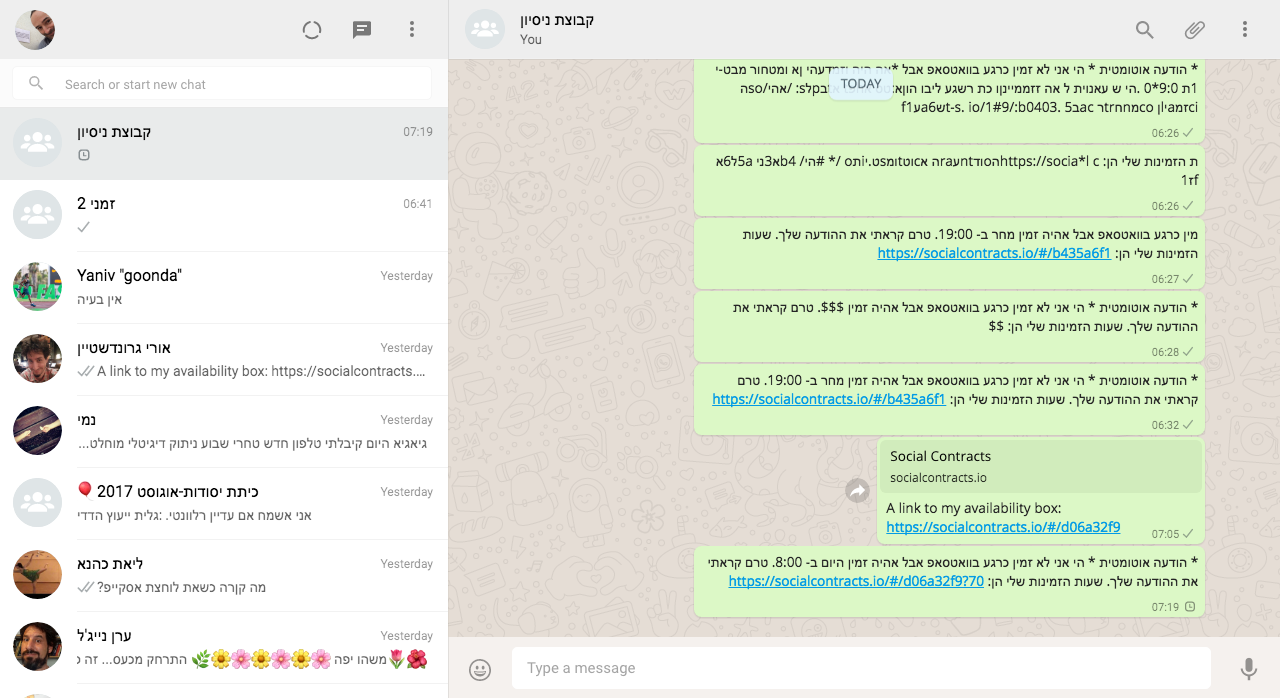
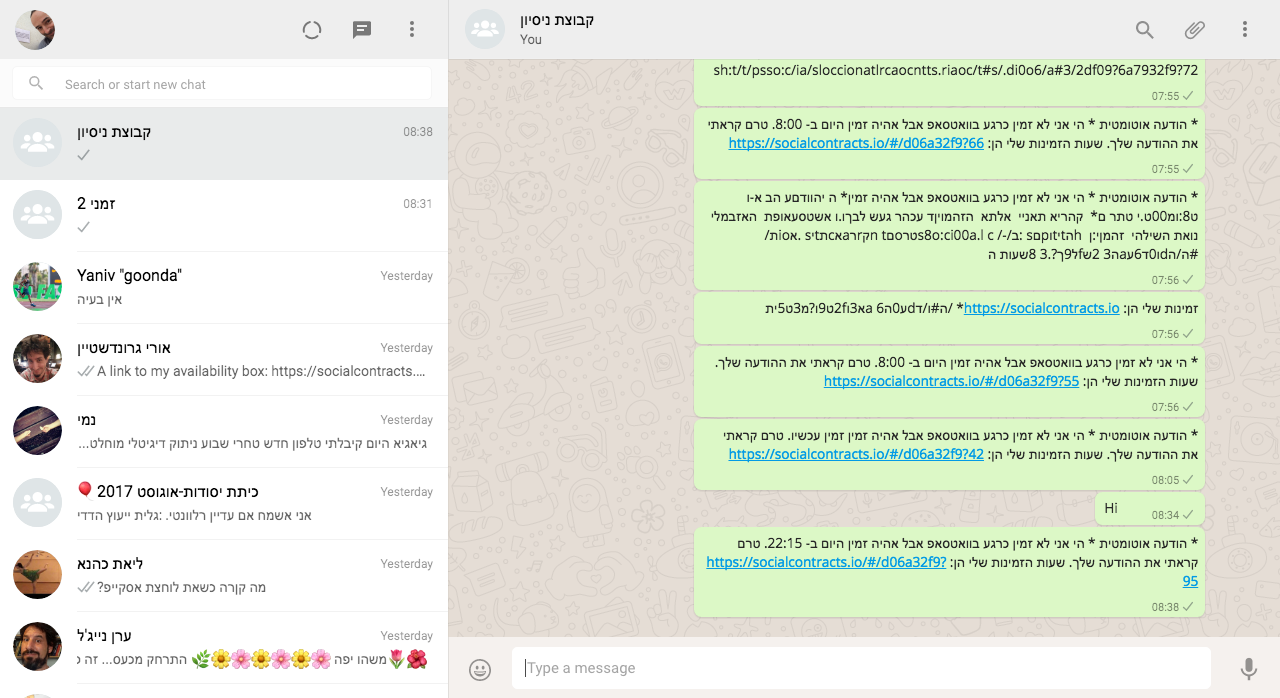
fixes in the change detector

Changed region(s): [[0.5312, 0.0903, 0.9375, 0.8725]]

diff --git a/utils/common.js b/utils/common.js
@@ -1,3 +1,5 @@
+const log = require('./log').logT;
+
 const template = '* הודעה אוטומטית * הי אני לא זמין כרגע בוואטסאפ אבל אהיה זמין $$$. טרם קראתי את ההודעה שלך. שעות הזמינות שלי הן: $$';
 const templateLink = 'https://socialcontracts.io/#/$$$?$$';
 
@@ -35,16 +37,20 @@ function setContractId(_contractId) {
     contractId = _contractId;
 }
 
-const sendAutoMessage = async (common) => {
+const sendAutoMessage = async () => {
     const when = availability.whatsapp,
         link = contractLink(contractId),
         message = autoMessage(when, link);
 
+    if (when === 'זמין עכשיו') {
+        return;
+    }
+
     console.log('message -> ', message);
 
-    await common.clickNear([637, 668]);
-    await common.writeText(message);
-    await common.enter();
+    await clickNear([637, 668]);
+    await writeText(message);
+    await enter();
 };
 
 
@@ -196,16 +202,92 @@ async function type(string, delay) {
 }
 
 async function getChatDetails() {
-    return await this.page.evaluate(() => {
-        console.log('true6 -> ', true);
+    return await page.evaluate(() => {
         let divs = [...document.querySelectorAll('.infinite-list-item')];
-        return divs.map((div) => {
+
+        const arr = divs.map((div) => {
             const chatTitle = div.querySelector('.chat-title span'),
                 timestamp = div.querySelector('.chat-meta .timestamp');
 
-            console.log(chatTitle.title, timestamp.innerHTML);
+            return {chatTitle: chatTitle.innerHTML, timestamp: timestamp.innerHTML}
         });
+
+        return Promise.resolve(arr);
     });
+}
+
+function cleanName(name) {
+    name = name.replace(/<!-- react-text: \d+ -->/gi, '');
+    name = name.replace('<!-- /react-text -->', '');
+    return name;
+}
+
+function cleanArray(arr) {
+    return arr.map(item => {
+        return {
+            chatTitle: cleanName(item.chatTitle),
+            timestamp: item.timestamp
+        }
+    })
+}
+
+const timestamp = () => (new Date()).getTime();
+
+let lastSend = {}, lastTimestamp, lastChatTitle;
+
+const getLastSend = (contactName) => lastSend[contactName] || 0;
+const timeSinceLastSend = (contactName) => Math.floor((timestamp() - getLastSend(contactName)) / 1000);
+
+const groupsKeywords = ['משפחה', 'יסודות', 'אהרונסון'];
+
+
+const keywordsExist = (string) => {
+    const newGroups = groupsKeywords
+        .filter(keyword => string.indexOf(keyword) < 0);
+
+    return newGroups.length === groupsKeywords.length;
+
+}
+
+function filterGroups(arr) {
+    return arr.filter(item => keywordsExist(item.chatTitle));
+}
+
+async function checkChanges(chat) {
+
+    log(chat.chatTitle, chat.timestamp)
+
+    const change = lastTimestamp !== chat.timestamp || lastChatTitle !== chat.chatTitle;
+
+    if (!change) {
+        log('no change', lastTimestamp, chat.timestamp, lastChatTitle, chat.chatTitle);
+        return;
+    }
+
+    const secondSinceSentToThisContact = timeSinceLastSend(chat.chatTitle);
+
+    if (secondSinceSentToThisContact < 10 * 60) {
+        log('change, but contact already received message ' + secondSinceSentToThisContact + ' seconds ago. aborting.');
+        lastTimestamp = chat.timestamp;
+        return;
+    } else {
+        log('change, sending message (last time sent ' + secondSinceSentToThisContact + ' seconds ago)');
+    }
+
+    await clickOnFirst();
+    await sendAutoMessage();
+
+    lastSend[chat.chatTitle] = timestamp();
+
+    lastTimestamp = chat.timestamp;
+    lastChatTitle = chat.chatTitle;
+}
+
+async function checkGroupNames() {
+    return await getChatDetails()
+        .then(response => cleanArray(response))
+        .then(response => filterGroups(response))
+        .then(response => checkChanges(response[0]));
 }
 
 module.exports = {
@@ -229,5 +311,6 @@ module.exports = {
     setContractId,
     setAvailability,
     sendAutoMessage,
-
+    checkChanges,
+    checkGroupNames,
 };

diff --git a/utils/Runner.js b/utils/Runner.js
@@ -9,19 +9,24 @@ const refreshStartTime = require('./log').refreshStartTime;
 const {configureContract, fetchContract} = require('./contracts_api');
 const {contractToText} = require('./contracts');
 
+const debugMode = false;
+
 class Runner {
     constructor(url, script_path = 'scripts/instructions.js', delta = 500) {
         this.script_path = script_path;
         this.lastHash = '';
         this.delta = delta;
-        this._interval = null;
         this.url = url;
         this.actionId = 0;
         this.common = common;
 
+        this._interval = null;
+        this._intervalFetch = null;
+
         this.step = this.step.bind(this);
         this.runAction = this.runAction.bind(this);
         this.takeScreenshot = this.takeScreenshot.bind(this);
+        this.refreshAvailability = this.refreshAvailability.bind(this);
     }
 
     setContractId(contractId) {
@@ -63,7 +68,8 @@ class Runner {
     async play() {
         refreshStartTime();
         log('play');
-        this._interval = setInterval(this.step, this.delta);
+        this._interval = setInterval(this.step, debugMode ? this.delta: 20000);
+        // this._intervalFetch = setInterval(this.refreshAvailability, 30 * 1000);
     }
 
     runJS(js) {
@@ -83,11 +89,14 @@ class Runner {
         const content = await readFile(this.script_path),
             hash = checksum(content);
 
-        if (hash === this.lastHash) {
+        if (debugMode && hash === this.lastHash) {
             return;
         }
 
-        log('new hash ' + hash);
+        if (hash !== this.lastHash) {
+            log('new hash ' + hash);
+        }
+
         this.lastHash = hash;
 
         const result = await this.runJS(content);

diff --git a/scripts/instructions.js b/scripts/instructions.js
@@ -1,12 +1,16 @@
 
 
+
+
 (async function () {
 
     const common = this.common;
 
-    await common.clickOnFirst();
-    await common.sendAutoMessage(common);
+    console.log('~~~~~~~~~~~~~~~~~~~~~~~~~~~~~~~~~~~~~');
 
+    // this.refreshAvailability();
+
+    await common.checkGroupNames();
     await this.takeScreenshotLatest();
 
     return [];
